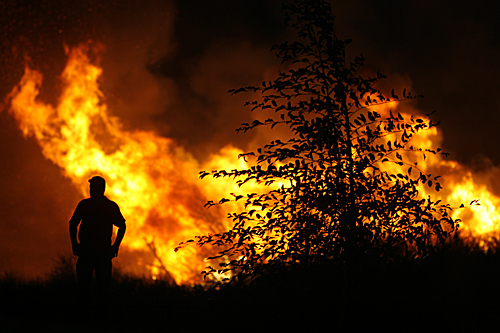
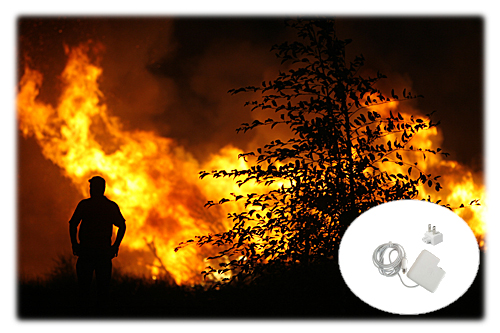
added some pictures, rounded out second post.

Changed region(s): [[0.0, 0.0, 1.0, 1.0]]

diff --git a/css/screen.css b/css/screen.css
@@ -26,7 +26,7 @@ body {
 h1 {
 	font-size: 220%;
 	color: #222222;
-	margin-top: 40px;
+	margin-top: 55px;
 		
 }
 
@@ -209,5 +209,9 @@ ul.posts {
 
 .centered {
 	text-align: center;
+}
+
+.caption {
+	font-size: 75%;
 }
 
